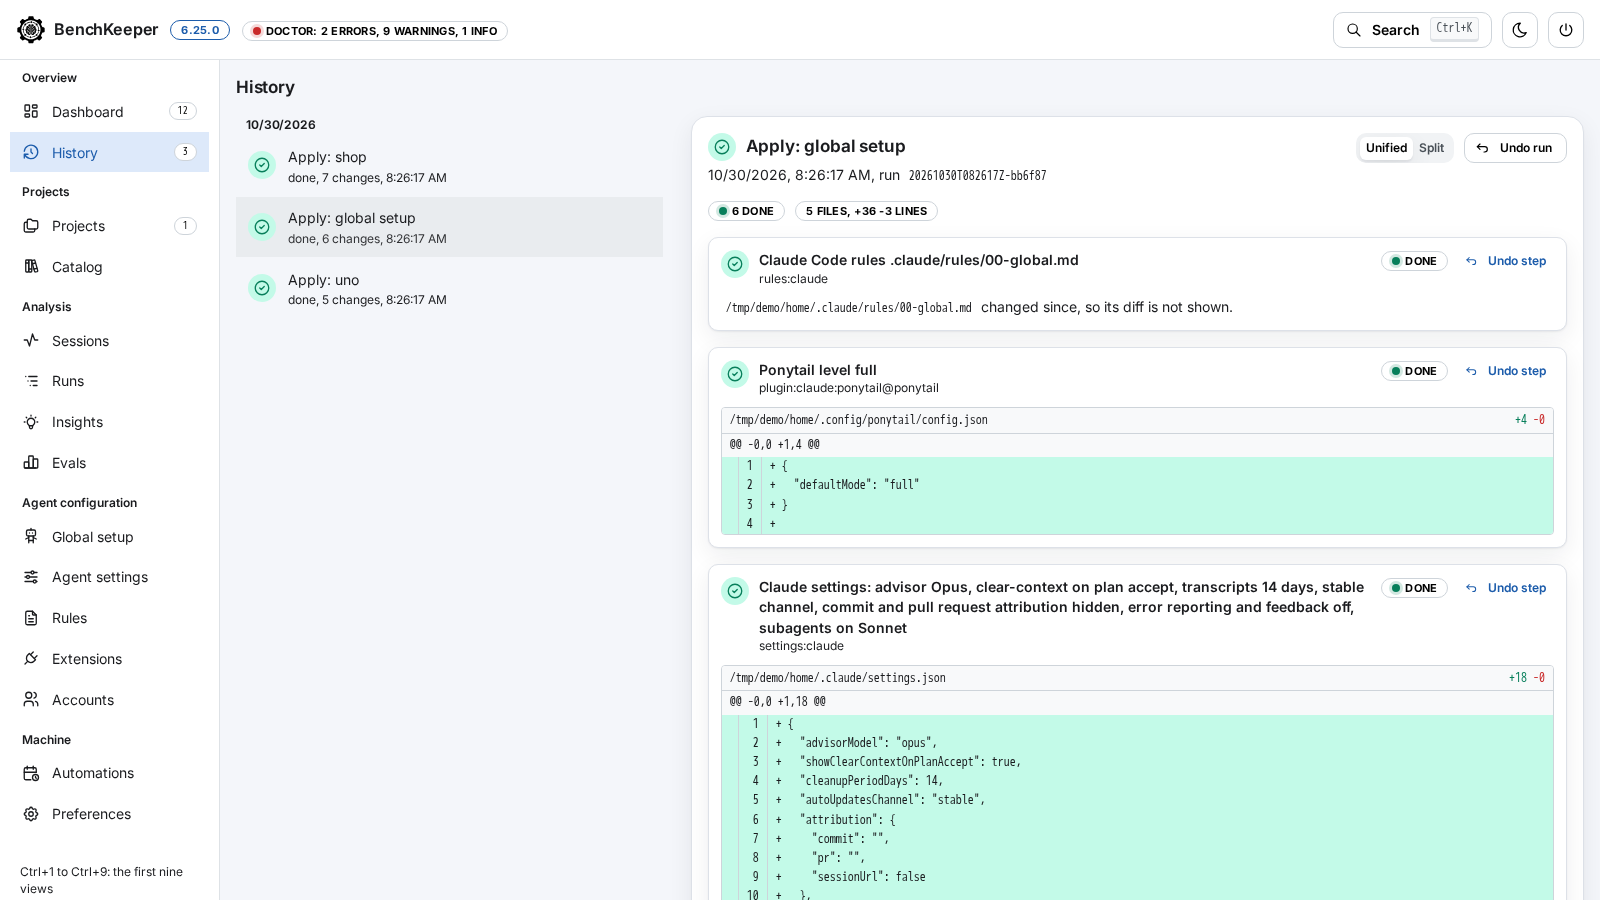
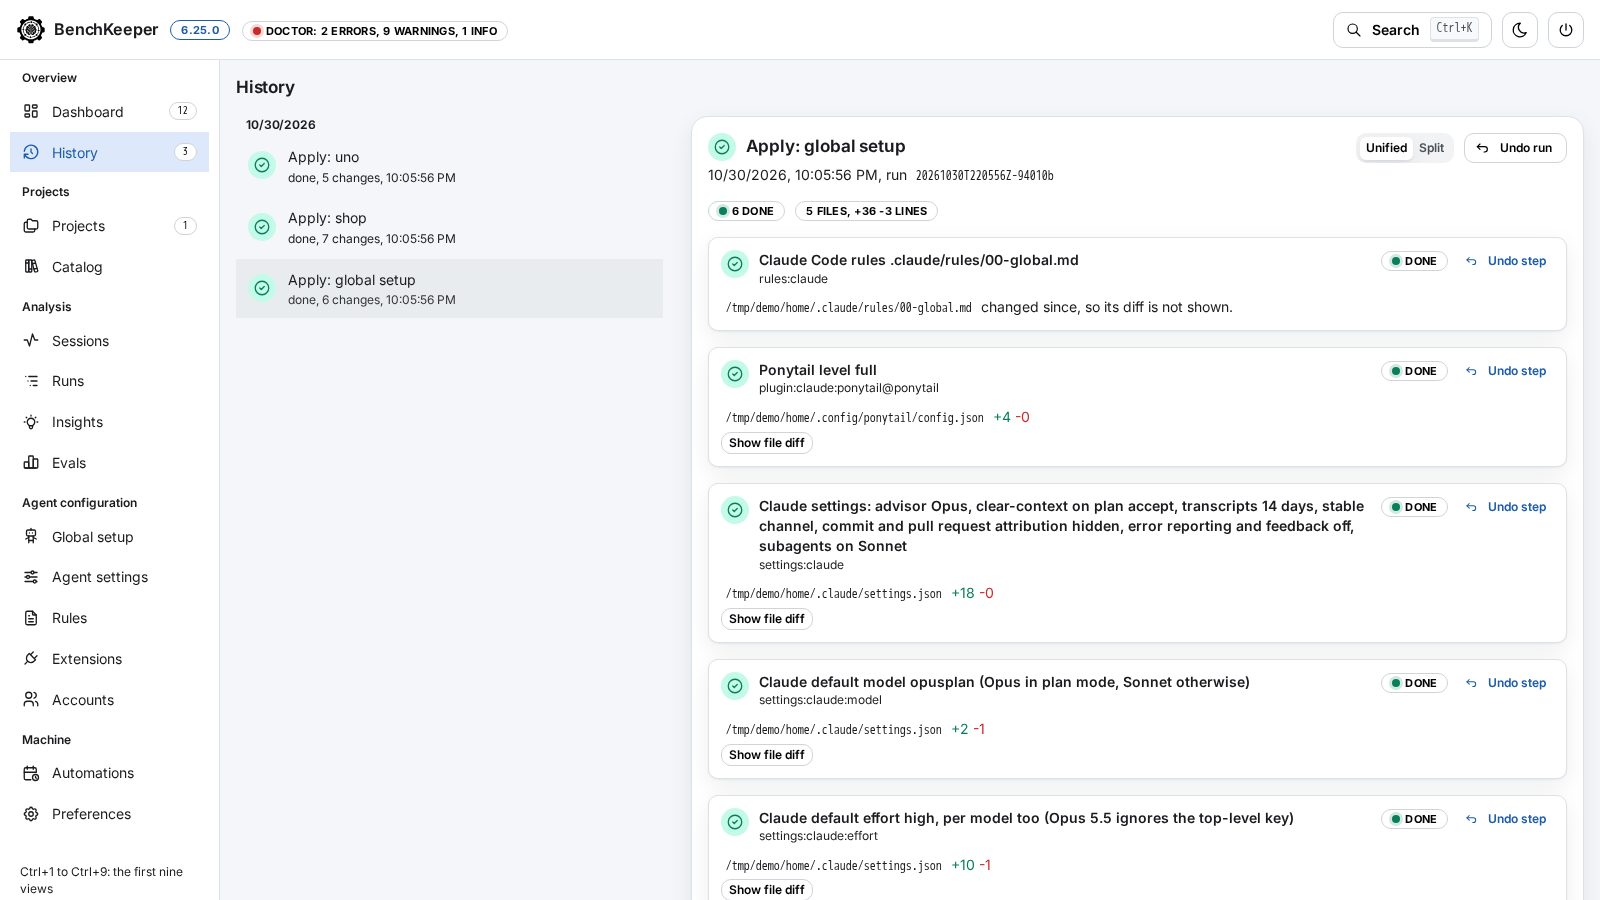
feat(app): fold the file diffs of a run in History
A run report in History now shows each step with its status and the file
it changed with the line counts; "Show file diff" opens the diff. The run
header keeps the layout switch and "Undo run", and every step keeps
"Undo step". Run reports outside History still show their diffs open.

Folded moves to the shared shell module so the run report can use it.

Refs #809

diff --git a/app/ui/run.jsx b/app/ui/run.jsx
@@ -4,7 +4,7 @@ import { IconArrowBackUp, IconCircleCheck, IconCircleX, IconHandStop, IconPlayer
 import { useMemo, useState } from 'react';
 import { api } from './api.js';
 import { parseDiff, sideBySide } from './diff.js';
-import { Dot, Loading, Note, StatusBadge, groupBy, href, icon, useApi } from './shell.jsx';
+import { Dot, Folded, Loading, Note, StatusBadge, groupBy, href, icon, useApi } from './shell.jsx';
 import './run.css';
 
 export const note = (r) => (r.note?.case ? `eval case ${r.note.case} for ${r.note.target}` : r.note?.updateAll ? `Update all of ${r.note.updateAll}` : r.of ? `undo of ${r.of}` : '');
@@ -72,8 +72,20 @@ export function DiffView({ diff, path, mode = 'unified' }) {
 const FILE_STATUS = { A: 'added', D: 'deleted', M: 'changed' };
 const undoable = (e) => (e.status === 'done' || e.touched) && !e.undone;
 
-function EntryBody({ e, mode, out }) {
-  if (e.diff) return <DiffView diff={e.diff} path={e.path} mode={mode} />;
+// Folded: the file and its line counts, the diff behind a button.
+function FileDiff({ diff, path, mode, fold }) {
+  if (!fold) return <DiffView diff={diff} path={path} mode={mode} />;
+  const d = parseDiff(diff);
+  return (
+    <Stack gap={4}>
+      <Text size="sm" style={{ overflowWrap: 'anywhere' }}><Code>{path}</Code> <span style={{ whiteSpace: 'nowrap' }}><span className="bk-plus">+{d.added}</span> <span className="bk-minus">-{d.removed}</span></span></Text>
+      <Folded label={['Show file diff', 'Hide file diff']} name={`file diff of ${path}`}><DiffView diff={diff} path={path} mode={mode} /></Folded>
+    </Stack>
+  );
+}
+
+function EntryBody({ e, mode, out, fold }) {
+  if (e.diff) return <FileDiff diff={e.diff} path={e.path} mode={mode} fold={fold} />;
   if (e.kind === 'write' && e.status === 'done') {
     return <Text size="sm">{e.removed ? <>Removed <Code>{e.path}</Code>.</> : e.commit ? <>Committed in <Code>{e.commit.slice(0, 12)}</Code>.</> : e.folder ? <>Copied the folder <Code>{e.path}</Code>.</> : <><Code>{e.path}</Code> changed since, so its diff is not shown.</>}</Text>;
   }
@@ -88,7 +100,7 @@ function EntryBody({ e, mode, out }) {
     return (
       <Stack gap="xs">
         {command}
-        {e.files.length ? e.files.map((f) => (f.diff ? <DiffView key={f.path} diff={f.diff} path={f.path} mode={mode} /> : <Text key={f.path} size="sm"><Code>{f.path}</Code> {FILE_STATUS[f.status] ?? f.status}, no text diff</Text>))
+        {e.files.length ? e.files.map((f) => (f.diff ? <FileDiff key={f.path} diff={f.diff} path={f.path} mode={mode} fold={fold} /> : <Text key={f.path} size="sm"><Code>{f.path}</Code> {FILE_STATUS[f.status] ?? f.status}, no text diff</Text>))
           : <Text size="sm">The session changed no files.</Text>}
       </Stack>
     );
@@ -100,7 +112,8 @@ function EntryBody({ e, mode, out }) {
 
 // One run as a report: what it did to each file and command, with undo per step and for the run.
 // output: what the commands printed, by change id, while the apply's job is known; the ledger does not keep it.
-function RunReport({ run: r, onUndo, busy, order = 3, output }) {
+// fold: each diff starts closed (History), so a run of many steps stays short.
+function RunReport({ run: r, onUndo, busy, order = 3, output, fold }) {
   const [mode, setMode] = useDiffMode();
   const diffs = r.entries.flatMap((e) => [e.diff, ...(e.files ?? []).map((f) => f.diff)]).filter(Boolean);
   const lines = useMemo(() => diffs.map(parseDiff).reduce((s, d) => ({ added: s.added + d.added, removed: s.removed + d.removed }), { added: 0, removed: 0 }), [r]);
@@ -142,7 +155,7 @@ function RunReport({ run: r, onUndo, busy, order = 3, output }) {
               </Group>
             </Group>
             {(e.error || e.reason) && <Text size="sm" c={e.error ? 'red' : undefined}>{e.error ?? e.reason}</Text>}
-            <EntryBody e={r.note?.commit ? { ...e, commit: r.note.commit } : e} mode={mode} out={output?.[e.id]} />
+            <EntryBody e={r.note?.commit ? { ...e, commit: r.note.commit } : e} mode={mode} out={output?.[e.id]} fold={fold} />
           </Stack>
         </Paper>
       ))}
@@ -151,7 +164,7 @@ function RunReport({ run: r, onUndo, busy, order = 3, output }) {
 }
 
 // A run loaded by id, with undo. onChanged runs after an undo, for counts elsewhere.
-export function RunPanel({ id, onChanged, order, output }) {
+export function RunPanel({ id, onChanged, order, output, fold }) {
   const run = useApi(`/api/run?id=${encodeURIComponent(id)}`);
   const [undone, setUndone] = useState(null);
   const [error, setError] = useState(null);
@@ -170,7 +183,7 @@ export function RunPanel({ id, onChanged, order, output }) {
           {undone.entries.filter((e) => e.status === 'done').length} of {undone.entries.length} changes undone, see run <Anchor href={href('history', { run: undone.id })}>{undone.id}</Anchor>.
         </Note>
       )}
-      <Loading state={run} label="run">{(r) => <RunReport run={r} onUndo={undo} busy={busy} order={order} output={output} />}</Loading>
+      <Loading state={run} label="run">{(r) => <RunReport run={r} onUndo={undo} busy={busy} order={order} output={output} fold={fold} />}</Loading>
     </Stack>
   );
 }

diff --git a/app/ui/views.jsx b/app/ui/views.jsx
@@ -2,7 +2,7 @@ import { Anchor, Badge, Button, Checkbox, Code, Drawer, FileButton, Group, List,
 import { IconDeviceFloppy, IconDownload, IconFolderSearch, IconFolders, IconListCheck, IconPackage, IconPlus, IconRefresh, IconTrash, IconUpload } from '@tabler/icons-react';
 import { Component, Suspense, lazy, useEffect, useRef, useState } from 'react';
 import { api } from './api.js';
-import { Cli, Folded, Plan, Section, StateBadge, useJob } from './parts.jsx';
+import { Cli, Plan, Section, StateBadge, useJob } from './parts.jsx';
 import { RunPanel, StatusIcon, note, runTitle, when } from './run.jsx';
 import { UpdateResults } from './fix.jsx';
 import { ATTENTION } from './dashboard.jsx';
@@ -13,7 +13,7 @@ import { SessionsHistory } from './sessionscache.jsx';
 import { Surfaces } from './runs.jsx';
 import { AddNotices, BulkBar, MissingBadge, ProjectCard, ProjectFilters, ProjectTotals, RemoveFromList, RemoveSetup, SelectCheckbox } from './projects.jsx';
 import { chipsOf, label, lags, plural, visibleProjects } from './cards.js';
-import { Dot, Loading, MOD, Note, SplitView, download, groupBy, href, icon, projectHref, useAnnounce, useApi } from './shell.jsx';
+import { Dot, Folded, Loading, MOD, Note, SplitView, download, groupBy, href, icon, projectHref, useAnnounce, useApi } from './shell.jsx';
 
 // The charts load with the first eval view or skill with results, not with the first page.
 const EvalResults = lazy(() => import('./evals.jsx').then((m) => ({ default: m.EvalResults })));
@@ -530,7 +530,7 @@ export function History({ history, params, refresh, only, link = (run) => href('
               ))}
               {listed.length < runs.length && <Button variant="default" onClick={() => setMore(true)}>Show {runs.length - listed.length} older runs</Button>}
             </Stack>
-          } detail={open ? <RunPanel key={open} id={open} order={3} onChanged={refresh} /> : null} />
+          } detail={open ? <RunPanel key={open} id={open} order={3} onChanged={refresh} fold /> : null} />
         ) : <Text>No runs yet.</Text>;
       }}</Loading>
       <Cli>{`benchkeeper history\nbenchkeeper undo ${open ?? '<run>'}\nbenchkeeper undo ${open ?? '<run>'} --step <step>\nbenchkeeper evals cases add --run <session run> --target skill:<name> --expected <text>`}</Cli>

diff --git a/app/ui/parts.jsx b/app/ui/parts.jsx
@@ -3,7 +3,7 @@ import { IconCopy, IconPlayerPlay, IconPlayerStop } from '@tabler/icons-react';
 import { useEffect, useRef, useState } from 'react';
 import { api } from './api.js';
 import { DiffView, RunPanel } from './run.jsx';
-import { Dot, Loading, Note, STATE_COLOR, StatusBadge, href, icon, useApi } from './shell.jsx';
+import { Dot, Folded, Loading, Note, STATE_COLOR, StatusBadge, href, icon, useApi } from './shell.jsx';
 
 export const pct = (v) => (v == null ? null : Math.round(v * 100));
 
@@ -124,17 +124,6 @@ export function SettingFacts({ f }) {
 export function SettingFactsOf({ settings: s }) {
   const state = useApi(`/api/settings?${new URLSearchParams({ agent: s.agent, keys: s.keys.join(','), ...(s.dir ? { dir: s.dir } : {}) })}`);
   return <Loading state={state} label="setting facts">{(list) => <Stack gap="xs">{list.map((f) => <SettingFacts key={f.key} f={f} />)}</Stack>}</Loading>;
-}
-
-// A change's diff (or another detail) behind a button: a long page stays short until one is opened.
-export function Folded({ title, children, label = ['Show diff', 'Hide diff'], name = `diff of ${title}` }) {
-  const [open, setOpen] = useState(false);
-  return (
-    <Stack gap={4}>
-      <Group><Button size="compact-xs" variant="default" aria-expanded={open} aria-label={`${open ? 'Hide' : 'Show'} ${name}`} onClick={() => setOpen(!open)}>{label[open ? 1 : 0]}</Button></Group>
-      {open && children}
-    </Stack>
-  );
 }
 
 // The cards of a plan in this order; plugins BenchKeeper did not install get their own card after them.

diff --git a/app/ui/shell.jsx b/app/ui/shell.jsx
@@ -1,4 +1,4 @@
-import { Alert, Badge, Box, Button, Grid, Group, Loader, Paper, ScrollArea, Text, VisuallyHidden } from '@mantine/core';
+import { Alert, Badge, Box, Button, Grid, Group, Loader, Paper, ScrollArea, Stack, Text, VisuallyHidden } from '@mantine/core';
 import { IconAlertCircle, IconAlertTriangle, IconCircleCheck, IconInfoCircle } from '@tabler/icons-react';
 import { useCallback, useEffect, useState } from 'react';
 import { NO_SESSION, api } from './api.js';
@@ -104,3 +104,14 @@ const ALERT_ICON = { red: IconAlertCircle, yellow: IconAlertTriangle, teal: Icon
 // An Alert with the icon of its color. A teal title has 4.32:1 on the light teal background, so it takes the text color.
 const TITLE = { teal: { title: { color: 'var(--mantine-color-text)' } } };
 export const Note = ({ color = 'blue', ...props }) => <Alert color={color} icon={icon(ALERT_ICON[color] ?? IconInfoCircle, 20)} styles={TITLE[color]} {...props} />;
+
+// A change's diff (or another detail) behind a button: a long page stays short until one is opened.
+export function Folded({ title, children, label = ['Show diff', 'Hide diff'], name = `diff of ${title}` }) {
+  const [open, setOpen] = useState(false);
+  return (
+    <Stack gap={4}>
+      <Group><Button size="compact-xs" variant="default" aria-expanded={open} aria-label={`${open ? 'Hide' : 'Show'} ${name}`} onClick={() => setOpen(!open)}>{label[open ? 1 : 0]}</Button></Group>
+      {open && children}
+    </Stack>
+  );
+}

diff --git a/web/src/components/AppPage.tsx b/web/src/components/AppPage.tsx
@@ -175,9 +175,9 @@ export const VIEWS: { id: string; view: string; title: string; shot: string; alt
   },
   {
     id: 'history', view: 'history', title: 'History and undo', shot: 'history',
-    alt: 'The History view: a list of runs, and the report of the global setup run with the number of changes done and a diff per changed file, unified or split, each with an Undo step button.',
+    alt: 'The History view: a list of runs, and the report of the global setup run with the number of changes done and, per step, the changed file with its line counts, a Show file diff button and an Undo step button.',
     text: [
-      'Every apply, update and undo is a run. The report lists each change with its diff, shown unified or split.',
+      'Every apply, update and undo is a run. The report lists each change with the file it changed; Show file diff opens the diff, unified or split.',
       'Undo run restores every file of the run; Undo step restores one. Replaced and removed files are kept for it.',
     ],
     cli: [`${V} history`, `${V} undo <run>`],

diff --git a/app/ui/agentsettings.jsx b/app/ui/agentsettings.jsx
@@ -3,8 +3,8 @@ import { useMediaQuery } from '@mantine/hooks';
 import { IconArrowBackUp, IconListCheck } from '@tabler/icons-react';
 import { useEffect, useRef, useState } from 'react';
 import { api } from './api.js';
-import { Folded, Plan, Section, SettingFacts } from './parts.jsx';
-import { Dot, Loading, Note, href, icon, useAnnounce, useApi } from './shell.jsx';
+import { Plan, Section, SettingFacts } from './parts.jsx';
+import { Dot, Folded, Loading, Note, href, icon, useAnnounce, useApi } from './shell.jsx';
 import { differs, editableIn, fixOf, matches, ownOf } from './suggest.js';
 
 const LAYERS = { user: 'User file', project: 'Project file', local: 'Local file' };
